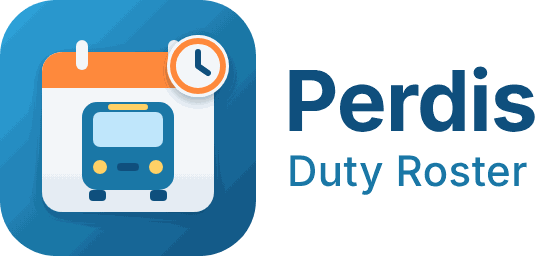
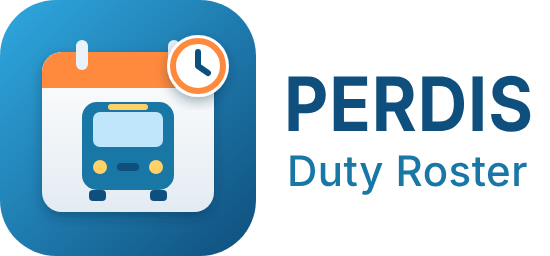
chore: synchronize latest integration releases

Changed region(s): [[0.5255, 0.25, 0.9891, 0.5312]]

diff --git a/README.md b/README.md
@@ -49,24 +49,24 @@ Automatic registration uses HACS' internal runtime registry and is **experimenta
 
 | | Integration | Latest release | Minimum Home Assistant | Marketplace | Downloads | Direct HACS install |
 | :---: | --- | --- | --- | :---: | ---: | --- |
-| <img src="assets/brands/car_tires_season.png" height="44" alt=""> | **[Car Tires Season](https://github.com/seb5594/hass-car_tires_season-integration)** | [2026.11.19](https://github.com/seb5594/hass-car_tires_season-integration/releases/tag/2026.11.19) | 2022.8.0 | ☑ | [175](https://github.com/seb5594/hass-car_tires_season-integration/releases) | [Install](https://my.home-assistant.io/redirect/hacs_repository/?owner=seb5594&repository=hass-car_tires_season-integration&category=integration) |
-| <img src="assets/brands/ubpet_cat_litter_hub.png" height="44" alt=""> | **[Cat Litter Hub – UPET / UBPet / AIRROBO / Robotail / Meowant](https://github.com/seb5594/hass-ubpet_cat_litter_hub-integration)** | [2026.11.20](https://github.com/seb5594/hass-ubpet_cat_litter_hub-integration/releases/tag/2026.11.20) | 2023.6.0 | ☑ | [345](https://github.com/seb5594/hass-ubpet_cat_litter_hub-integration/releases) | [Install](https://my.home-assistant.io/redirect/hacs_repository/?owner=seb5594&repository=hass-ubpet_cat_litter_hub-integration&category=integration) |
-| <img src="assets/brands/cigarette_vending_finder.png" height="44" alt=""> | **[Cigarette Vending Finder](https://github.com/seb5594/hass-cigarette_vending_finder-integration)** | [2026.11.23.1](https://github.com/seb5594/hass-cigarette_vending_finder-integration/releases/tag/2026.11.23.1) | 2024.4.0 | ☐ | [71](https://github.com/seb5594/hass-cigarette_vending_finder-integration/releases) | [Install](https://my.home-assistant.io/redirect/hacs_repository/?owner=seb5594&repository=hass-cigarette_vending_finder-integration&category=integration) |
-| <img src="assets/brands/custom_integration_translator.png" height="44" alt=""> | **[Custom Integration Translator](https://github.com/seb5594/hass-custom_integrations_translator-integration)** | [2026.11.20](https://github.com/seb5594/hass-custom_integrations_translator-integration/releases/tag/2026.11.20) | 2023.7.0 | ☑ | [284](https://github.com/seb5594/hass-custom_integrations_translator-integration/releases) | [Install](https://my.home-assistant.io/redirect/hacs_repository/?owner=seb5594&repository=hass-custom_integrations_translator-integration&category=integration) |
-| <img src="assets/brands/deepl_translator.png" height="44" alt=""> | **[DeepL Translator](https://github.com/seb5594/hass-deepl_translator-integration)** | [2026.11.20](https://github.com/seb5594/hass-deepl_translator-integration/releases/tag/2026.11.20) | 2023.7.0 | ☑ | [315](https://github.com/seb5594/hass-deepl_translator-integration/releases) | [Install](https://my.home-assistant.io/redirect/hacs_repository/?owner=seb5594&repository=hass-deepl_translator-integration&category=integration) |
-| <img src="assets/brands/escpos_printer.png" height="44" alt=""> | **[ESC/POS Thermal Printer](https://github.com/seb5594/hass-escpos-thermal-printer-integration)** | [2026.11.26](https://github.com/seb5594/hass-escpos-thermal-printer-integration/releases/tag/2026.11.26) | 2026.5.0 | ☐ | [118](https://github.com/seb5594/hass-escpos-thermal-printer-integration/releases) | [Install](https://my.home-assistant.io/redirect/hacs_repository/?owner=seb5594&repository=hass-escpos-thermal-printer-integration&category=integration) |
-| <img src="assets/brands/escpos_designer.png" height="44" alt=""> | **[ESC/POS Thermal Printer Designer](https://github.com/seb5594/hass-escpos-thermal-printing-designer-integration)** | [2026.11.24](https://github.com/seb5594/hass-escpos-thermal-printing-designer-integration/releases/tag/2026.11.24) | 2024.12.0 | ☑ | [109](https://github.com/seb5594/hass-escpos-thermal-printing-designer-integration/releases) | [Install](https://my.home-assistant.io/redirect/hacs_repository/?owner=seb5594&repository=hass-escpos-thermal-printing-designer-integration&category=integration) |
-| <img src="assets/brands/google_translator.png" height="44" alt=""> | **[Google Translator](https://github.com/seb5594/hass-google_translator-integration)** | [2026.11.26](https://github.com/seb5594/hass-google_translator-integration/releases/tag/2026.11.26) | 2023.7.0 | ☑ | [167](https://github.com/seb5594/hass-google_translator-integration/releases) | [Install](https://my.home-assistant.io/redirect/hacs_repository/?owner=seb5594&repository=hass-google_translator-integration&category=integration) |
-| <img src="assets/brands/medication_monitoring.png" height="44" alt=""> | **[Medication Monitoring](https://github.com/seb5594/hass-medication_monitoring-integration)** | [2026.11.20](https://github.com/seb5594/hass-medication_monitoring-integration/releases/tag/2026.11.20) | 2022.8.0 | ☐ | [326](https://github.com/seb5594/hass-medication_monitoring-integration/releases) | [Install](https://my.home-assistant.io/redirect/hacs_repository/?owner=seb5594&repository=hass-medication_monitoring-integration&category=integration) |
-| <img src="assets/brands/ninebot_e_scooters.png" height="44" alt=""> | **[Ninebot E-Scooters](https://github.com/seb5594/hass-ninebot_e_scooters-integration)** | [2026.11.20](https://github.com/seb5594/hass-ninebot_e_scooters-integration/releases/tag/2026.11.20) | 2023.2.0 | ☑ | [486](https://github.com/seb5594/hass-ninebot_e_scooters-integration/releases) | [Install](https://my.home-assistant.io/redirect/hacs_repository/?owner=seb5594&repository=hass-ninebot_e_scooters-integration&category=integration) |
-| <img src="assets/brands/perdis_roster.png" height="44" alt=""> | **[Perdis Duty Roster](https://github.com/seb5594/hass-perdis_roster-integration)** | [2026.11.26.6](https://github.com/seb5594/hass-perdis_roster-integration/releases/tag/2026.11.26.6) | 2023.7.0 | ☐ | [140](https://github.com/seb5594/hass-perdis_roster-integration/releases) | [Install](https://my.home-assistant.io/redirect/hacs_repository/?owner=seb5594&repository=hass-perdis_roster-integration&category=integration) |
-| <img src="assets/brands/pulseaudio_loopback.png" height="44" alt=""> | **[PulseAudio Loopback Extended](https://github.com/seb5594/hass-pulseaudio_loopback_extended-integration)** | [v1.0.0](https://github.com/seb5594/hass-pulseaudio_loopback_extended-integration/releases/tag/v1.0.0) | 2022.4.0 | ☐ | [306](https://github.com/seb5594/hass-pulseaudio_loopback_extended-integration/releases) | [Install](https://my.home-assistant.io/redirect/hacs_repository/?owner=seb5594&repository=hass-pulseaudio_loopback_extended-integration&category=integration) |
-| <img src="assets/catalog.svg" height="44" alt=""> | **[PWA Web-App Studio](https://github.com/seb5594/hass-pwa_app_studio-integration)** | [2026.11.26.90](https://github.com/seb5594/hass-pwa_app_studio-integration/releases/tag/2026.11.26.90) | 2021.12.0 | ☐ | [56](https://github.com/seb5594/hass-pwa_app_studio-integration/releases) | [Install](https://my.home-assistant.io/redirect/hacs_repository/?owner=seb5594&repository=hass-pwa_app_studio-integration&category=integration) |
-| <img src="assets/catalog.svg" height="44" alt=""> | **[Rockstar & Leonida Companion](https://github.com/seb5594/hass-gta6-integration)** | [v0.1.0](https://github.com/seb5594/hass-gta6-integration/releases/tag/v0.1.0) | 2026.11.0 | ☐ | [47](https://github.com/seb5594/hass-gta6-integration/releases) | [Install](https://my.home-assistant.io/redirect/hacs_repository/?owner=seb5594&repository=hass-gta6-integration&category=integration) |
-| <img src="assets/brands/vacuum_mapguard.png" height="44" alt=""> | **[Vacuum MapGuard](https://github.com/seb5594/hass-vacuum_mapguard-integration)** | [v1.1.4](https://github.com/seb5594/hass-vacuum_mapguard-integration/releases/tag/v1.1.4) | 2026.3.0 | ☑ | [327](https://github.com/seb5594/hass-vacuum_mapguard-integration/releases) | [Install](https://my.home-assistant.io/redirect/hacs_repository/?owner=seb5594&repository=hass-vacuum_mapguard-integration&category=integration) |
-| | **Total · 15 integrations** | | | **8 / 15** | **3,272** | |
+| <img src="assets/brands/car_tires_season.png" height="44" alt=""> | **[Car Tires Season](https://github.com/seb5594/hass-car_tires_season-integration)** | [2026.11.19](https://github.com/seb5594/hass-car_tires_season-integration/releases/tag/2026.11.19) | 2022.8.0 | ☑ | [176](https://github.com/seb5594/hass-car_tires_season-integration/releases) | [Install](https://my.home-assistant.io/redirect/hacs_repository/?owner=seb5594&repository=hass-car_tires_season-integration&category=integration) |
+| <img src="assets/brands/ubpet_cat_litter_hub.png" height="44" alt=""> | **[Cat Litter Hub – UPET / UBPet / AIRROBO / Robotail / Meowant](https://github.com/seb5594/hass-ubpet_cat_litter_hub-integration)** | [2026.11.20](https://github.com/seb5594/hass-ubpet_cat_litter_hub-integration/releases/tag/2026.11.20) | 2023.6.0 | ☑ | [346](https://github.com/seb5594/hass-ubpet_cat_litter_hub-integration/releases) | [Install](https://my.home-assistant.io/redirect/hacs_repository/?owner=seb5594&repository=hass-ubpet_cat_litter_hub-integration&category=integration) |
+| <img src="assets/brands/cigarette_vending_finder.png" height="44" alt=""> | **[Cigarette Vending Finder](https://github.com/seb5594/hass-cigarette_vending_finder-integration)** | [2026.11.23.1](https://github.com/seb5594/hass-cigarette_vending_finder-integration/releases/tag/2026.11.23.1) | 2024.4.0 | ☐ | [72](https://github.com/seb5594/hass-cigarette_vending_finder-integration/releases) | [Install](https://my.home-assistant.io/redirect/hacs_repository/?owner=seb5594&repository=hass-cigarette_vending_finder-integration&category=integration) |
+| <img src="assets/brands/custom_integration_translator.png" height="44" alt=""> | **[Custom Integration Translator](https://github.com/seb5594/hass-custom_integrations_translator-integration)** | [2026.11.20](https://github.com/seb5594/hass-custom_integrations_translator-integration/releases/tag/2026.11.20) | 2023.7.0 | ☑ | [285](https://github.com/seb5594/hass-custom_integrations_translator-integration/releases) | [Install](https://my.home-assistant.io/redirect/hacs_repository/?owner=seb5594&repository=hass-custom_integrations_translator-integration&category=integration) |
+| <img src="assets/brands/deepl_translator.png" height="44" alt=""> | **[DeepL Translator](https://github.com/seb5594/hass-deepl_translator-integration)** | [2026.11.20](https://github.com/seb5594/hass-deepl_translator-integration/releases/tag/2026.11.20) | 2023.7.0 | ☑ | [316](https://github.com/seb5594/hass-deepl_translator-integration/releases) | [Install](https://my.home-assistant.io/redirect/hacs_repository/?owner=seb5594&repository=hass-deepl_translator-integration&category=integration) |
+| <img src="assets/brands/escpos_printer.png" height="44" alt=""> | **[ESC/POS Thermal Printer](https://github.com/seb5594/hass-escpos-thermal-printer-integration)** | [2026.11.26](https://github.com/seb5594/hass-escpos-thermal-printer-integration/releases/tag/2026.11.26) | 2026.5.0 | ☐ | [119](https://github.com/seb5594/hass-escpos-thermal-printer-integration/releases) | [Install](https://my.home-assistant.io/redirect/hacs_repository/?owner=seb5594&repository=hass-escpos-thermal-printer-integration&category=integration) |
+| <img src="assets/brands/escpos_designer.png" height="44" alt=""> | **[ESC/POS Thermal Printer Designer](https://github.com/seb5594/hass-escpos-thermal-printing-designer-integration)** | [2026.11.24](https://github.com/seb5594/hass-escpos-thermal-printing-designer-integration/releases/tag/2026.11.24) | 2024.12.0 | ☑ | [110](https://github.com/seb5594/hass-escpos-thermal-printing-designer-integration/releases) | [Install](https://my.home-assistant.io/redirect/hacs_repository/?owner=seb5594&repository=hass-escpos-thermal-printing-designer-integration&category=integration) |
+| <img src="assets/brands/google_translator.png" height="44" alt=""> | **[Google Translator](https://github.com/seb5594/hass-google_translator-integration)** | [2026.11.26](https://github.com/seb5594/hass-google_translator-integration/releases/tag/2026.11.26) | 2023.7.0 | ☑ | [168](https://github.com/seb5594/hass-google_translator-integration/releases) | [Install](https://my.home-assistant.io/redirect/hacs_repository/?owner=seb5594&repository=hass-google_translator-integration&category=integration) |
+| <img src="assets/brands/medication_monitoring.png" height="44" alt=""> | **[Medication Monitoring](https://github.com/seb5594/hass-medication_monitoring-integration)** | [2026.11.20](https://github.com/seb5594/hass-medication_monitoring-integration/releases/tag/2026.11.20) | 2022.8.0 | ☐ | [327](https://github.com/seb5594/hass-medication_monitoring-integration/releases) | [Install](https://my.home-assistant.io/redirect/hacs_repository/?owner=seb5594&repository=hass-medication_monitoring-integration&category=integration) |
+| <img src="assets/brands/ninebot_e_scooters.png" height="44" alt=""> | **[Ninebot E-Scooters](https://github.com/seb5594/hass-ninebot_e_scooters-integration)** | [2026.11.20](https://github.com/seb5594/hass-ninebot_e_scooters-integration/releases/tag/2026.11.20) | 2023.2.0 | ☑ | [488](https://github.com/seb5594/hass-ninebot_e_scooters-integration/releases) | [Install](https://my.home-assistant.io/redirect/hacs_repository/?owner=seb5594&repository=hass-ninebot_e_scooters-integration&category=integration) |
+| <img src="assets/brands/perdis_roster.png" height="44" alt=""> | **[PERDIS Duty Roster](https://github.com/seb5594/hass-perdis_roster-integration)** | [2026.11.26.7](https://github.com/seb5594/hass-perdis_roster-integration/releases/tag/2026.11.26.7) | 2023.7.0 | ☐ | [143](https://github.com/seb5594/hass-perdis_roster-integration/releases) | [Install](https://my.home-assistant.io/redirect/hacs_repository/?owner=seb5594&repository=hass-perdis_roster-integration&category=integration) |
+| <img src="assets/brands/pulseaudio_loopback.png" height="44" alt=""> | **[PulseAudio Loopback Extended](https://github.com/seb5594/hass-pulseaudio_loopback_extended-integration)** | [v1.0.0](https://github.com/seb5594/hass-pulseaudio_loopback_extended-integration/releases/tag/v1.0.0) | 2022.4.0 | ☐ | [307](https://github.com/seb5594/hass-pulseaudio_loopback_extended-integration/releases) | [Install](https://my.home-assistant.io/redirect/hacs_repository/?owner=seb5594&repository=hass-pulseaudio_loopback_extended-integration&category=integration) |
+| <img src="assets/catalog.svg" height="44" alt=""> | **[PWA Web-App Studio](https://github.com/seb5594/hass-pwa_app_studio-integration)** | [2026.11.26.90](https://github.com/seb5594/hass-pwa_app_studio-integration/releases/tag/2026.11.26.90) | 2021.12.0 | ☐ | [57](https://github.com/seb5594/hass-pwa_app_studio-integration/releases) | [Install](https://my.home-assistant.io/redirect/hacs_repository/?owner=seb5594&repository=hass-pwa_app_studio-integration&category=integration) |
+| <img src="assets/catalog.svg" height="44" alt=""> | **[Rockstar & Leonida Companion](https://github.com/seb5594/hass-gta6-integration)** | [v0.1.0](https://github.com/seb5594/hass-gta6-integration/releases/tag/v0.1.0) | 2026.11.0 | ☐ | [48](https://github.com/seb5594/hass-gta6-integration/releases) | [Install](https://my.home-assistant.io/redirect/hacs_repository/?owner=seb5594&repository=hass-gta6-integration&category=integration) |
+| <img src="assets/brands/vacuum_mapguard.png" height="44" alt=""> | **[Vacuum MapGuard](https://github.com/seb5594/hass-vacuum_mapguard-integration)** | [v1.1.4](https://github.com/seb5594/hass-vacuum_mapguard-integration/releases/tag/v1.1.4) | 2026.3.0 | ☑ | [328](https://github.com/seb5594/hass-vacuum_mapguard-integration/releases) | [Install](https://my.home-assistant.io/redirect/hacs_repository/?owner=seb5594&repository=hass-vacuum_mapguard-integration&category=integration) |
+| | **Total · 15 integrations** | | | **8 / 15** | **3,290** | |
 
-☑ Listed in the [official HACS / Marketplace catalog](https://github.com/hacs/default/blob/031ec2bedb23aa24e881008b6d1c7864b4ee2d41/integration). ☐ Available through a custom repository.
+☑ Listed in the [official HACS / Marketplace catalog](https://github.com/hacs/default/blob/6b819930ea1d89d629c8fc32008e359948a8a719/integration). ☐ Available through a custom repository.
 
 Downloads count release asset downloads across all published GitHub releases, including pre-releases. GitHub-generated source archives are excluded. Repeat downloads count again, so these figures do not measure unique users or active installations. Data checked on 2026-11-26 (UTC), refreshed by the hourly catalog sync.
 
@@ -288,22 +288,22 @@ A custom integration for Ninebot and Xiaomi E-Scooter's in Home Assistant
 
 ---
 
-### <img src="assets/brands/perdis_roster.png" height="48" alt=""> Perdis Duty Roster
+### <img src="assets/brands/perdis_roster.png" height="48" alt=""> PERDIS Duty Roster
 
 Home Assistant custom component for the enterprise software Perdis by INIT
 
-[![release: 2026.11.26.6](https://img.shields.io/static/v1?label=release&message=2026.11.26.6&color=1877A5&style=flat)](https://github.com/seb5594/hass-perdis_roster-integration/releases/tag/2026.11.26.6) ![Home Assistant: ≥ 2023.7.0](https://img.shields.io/static/v1?label=Home%20Assistant&message=%E2%89%A5%202023.7.0&color=1877A5&style=flat)<br>
-[![release checks](https://img.shields.io/github/check-runs/seb5594/hass-perdis_roster-integration/8b50519bc8a3c1163f89c466007cf7a163c21c19?label=release%20checks)](https://github.com/seb5594/hass-perdis_roster-integration/commit/8b50519bc8a3c1163f89c466007cf7a163c21c19/checks) ![tests: 74 passed](https://img.shields.io/static/v1?label=tests&message=74%20passed&color=2F855A&style=flat) [![release downloads](https://img.shields.io/github/downloads/seb5594/hass-perdis_roster-integration/2026.11.26.6/total?label=downloads)](https://github.com/seb5594/hass-perdis_roster-integration/releases/download/2026.11.26.6/perdis_roster.zip) [![issues](https://img.shields.io/github/issues/seb5594/hass-perdis_roster-integration?label=issues)](https://github.com/seb5594/hass-perdis_roster-integration/issues)
+[![release: 2026.11.26.7](https://img.shields.io/static/v1?label=release&message=2026.11.26.7&color=1877A5&style=flat)](https://github.com/seb5594/hass-perdis_roster-integration/releases/tag/2026.11.26.7) ![Home Assistant: ≥ 2023.7.0](https://img.shields.io/static/v1?label=Home%20Assistant&message=%E2%89%A5%202023.7.0&color=1877A5&style=flat)<br>
+[![release checks](https://img.shields.io/github/check-runs/seb5594/hass-perdis_roster-integration/13b4ff47a8d1bee31dfd38d3fc73d8e9c8d6ce32?label=release%20checks)](https://github.com/seb5594/hass-perdis_roster-integration/commit/13b4ff47a8d1bee31dfd38d3fc73d8e9c8d6ce32/checks) ![tests: 74 passed](https://img.shields.io/static/v1?label=tests&message=74%20passed&color=2F855A&style=flat) [![release downloads](https://img.shields.io/github/downloads/seb5594/hass-perdis_roster-integration/2026.11.26.7/total?label=downloads)](https://github.com/seb5594/hass-perdis_roster-integration/releases/download/2026.11.26.7/perdis_roster.zip) [![issues](https://img.shields.io/github/issues/seb5594/hass-perdis_roster-integration?label=issues)](https://github.com/seb5594/hass-perdis_roster-integration/issues)
 
-[**Open in HACS**](https://my.home-assistant.io/redirect/hacs_repository/?owner=seb5594&repository=hass-perdis_roster-integration&category=integration) · [Release package](https://github.com/seb5594/hass-perdis_roster-integration/releases/download/2026.11.26.6/perdis_roster.zip) · [Documentation](https://github.com/seb5594/hass-perdis_roster-integration/tree/2026.11.26.6) · [Changelog](https://github.com/seb5594/hass-perdis_roster-integration/blob/2026.11.26.6/CHANGELOG.md)
+[**Open in HACS**](https://my.home-assistant.io/redirect/hacs_repository/?owner=seb5594&repository=hass-perdis_roster-integration&category=integration) · [Release package](https://github.com/seb5594/hass-perdis_roster-integration/releases/download/2026.11.26.7/perdis_roster.zip) · [Documentation](https://github.com/seb5594/hass-perdis_roster-integration/tree/2026.11.26.7) · [Changelog](https://github.com/seb5594/hass-perdis_roster-integration/blob/2026.11.26.7/CHANGELOG.md)
 
 <details>
 <summary>Release and source details</summary>
 
 - Domain: `perdis_roster`
-- Published release: [2026.11.26.6](https://github.com/seb5594/hass-perdis_roster-integration/releases/tag/2026.11.26.6)
+- Published release: [2026.11.26.7](https://github.com/seb5594/hass-perdis_roster-integration/releases/tag/2026.11.26.7)
 - Source: [`integrations/perdis_roster`](integrations/perdis_roster) (Git submodule)
-- Pinned commit: [`8b50519`](https://github.com/seb5594/hass-perdis_roster-integration/commit/8b50519bc8a3c1163f89c466007cf7a163c21c19)
+- Pinned commit: [`13b4ff4`](https://github.com/seb5594/hass-perdis_roster-integration/commit/13b4ff47a8d1bee31dfd38d3fc73d8e9c8d6ce32)
 
 </details>
 

diff --git a/assets/brands/README.md b/assets/brands/README.md
@@ -12,7 +12,7 @@ Source graphics retain their original rights and licenses.
 - **Google Translator** (`assets/brands/google_translator.png`): https://github.com/seb5594/hass-google_translator-integration/releases/tag/2026.11.26 (google_translator.zip: brand/icon.png)
 - **Medication Monitoring** (`assets/brands/medication_monitoring.png`): https://github.com/seb5594/hass-medication_monitoring-integration/releases/tag/2026.11.20 (medication_monitoring.zip: brand/icon.png)
 - **Ninebot E-Scooters** (`assets/brands/ninebot_e_scooters.png`): https://github.com/seb5594/hass-ninebot_e_scooters-integration/releases/tag/2026.11.20 (ninebot_e_scooters.zip: brand/logo.png)
-- **Perdis Duty Roster** (`assets/brands/perdis_roster.png`): https://github.com/seb5594/hass-perdis_roster-integration/releases/tag/2026.11.26.6 (perdis_roster.zip: brand/logo.png)
+- **PERDIS Duty Roster** (`assets/brands/perdis_roster.png`): https://github.com/seb5594/hass-perdis_roster-integration/releases/tag/2026.11.26.7 (perdis_roster.zip: brand/logo.png)
 - **PulseAudio Loopback Extended** (`assets/brands/pulseaudio_loopback.png`): https://raw.githubusercontent.com/home-assistant/brands/2448af4760063a885f173080eb5381323b7ae9a4/core_integrations/pulseaudio_loopback/icon.png
 - **PWA Web-App Studio** (`assets/catalog.svg`): Original catalog fallback symbol; not a source project brand asset.
 - **Rockstar & Leonida Companion** (`assets/catalog.svg`): Original catalog fallback symbol; not a source project brand asset.
